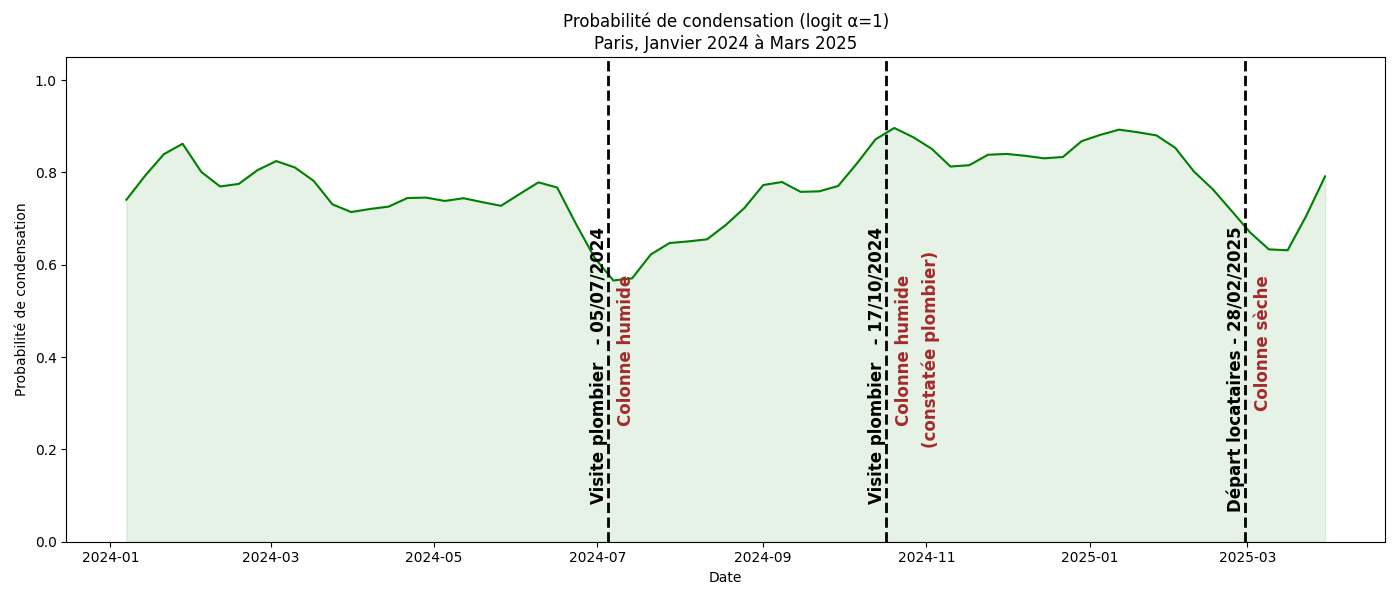
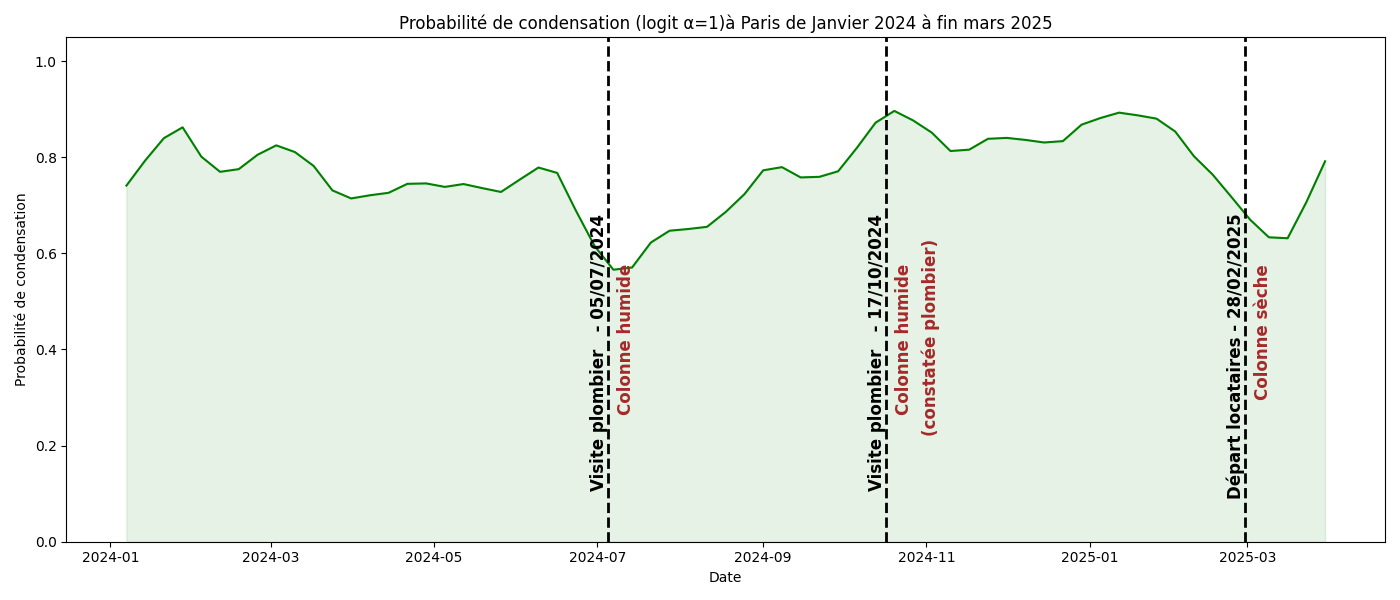
adapting title

diff --git a/scripts/plot.py b/scripts/plot.py
@@ -110,7 +110,7 @@ def plot_condensation_probability(temp_df, dew_df):
     ax.set_ylabel("Probabilité de condensation")
     ax.set_xlabel("Date")
     ax.set_ylim(0, 1.05)
-    ax.set_title("Probabilité de condensation (logit α=1)\nParis, Janvier 2024 à Mars 2025")
+    ax.set_title("Probabilité de condensation (logit α=1)à Paris de Janvier 2024 à fin mars 2025")
     add_annotations(ax)
     plt.tight_layout()
     plt.savefig("data/png/condensation_probability.png")
@@ -126,7 +126,7 @@ def plot_excess_dew_vs_tmin(temp_df, dew_df):
     ax.fill_between(weekly.index, smoothed, color=COLORS['excess'], alpha=0.1)
     ax.set_ylabel("Excès de rosée (°C)")
     ax.set_xlabel("Date")
-    ax.set_title("Excès de rosée\nParis, Janvier 2024 à Mars 2025")
+    ax.set_title("Excès de roséeà Paris de Janvier 2024 à fin mars 2025")
     add_annotations(ax)
     plt.tight_layout()
     plt.savefig("data/png/excess_dew_vs_tmin.png")
